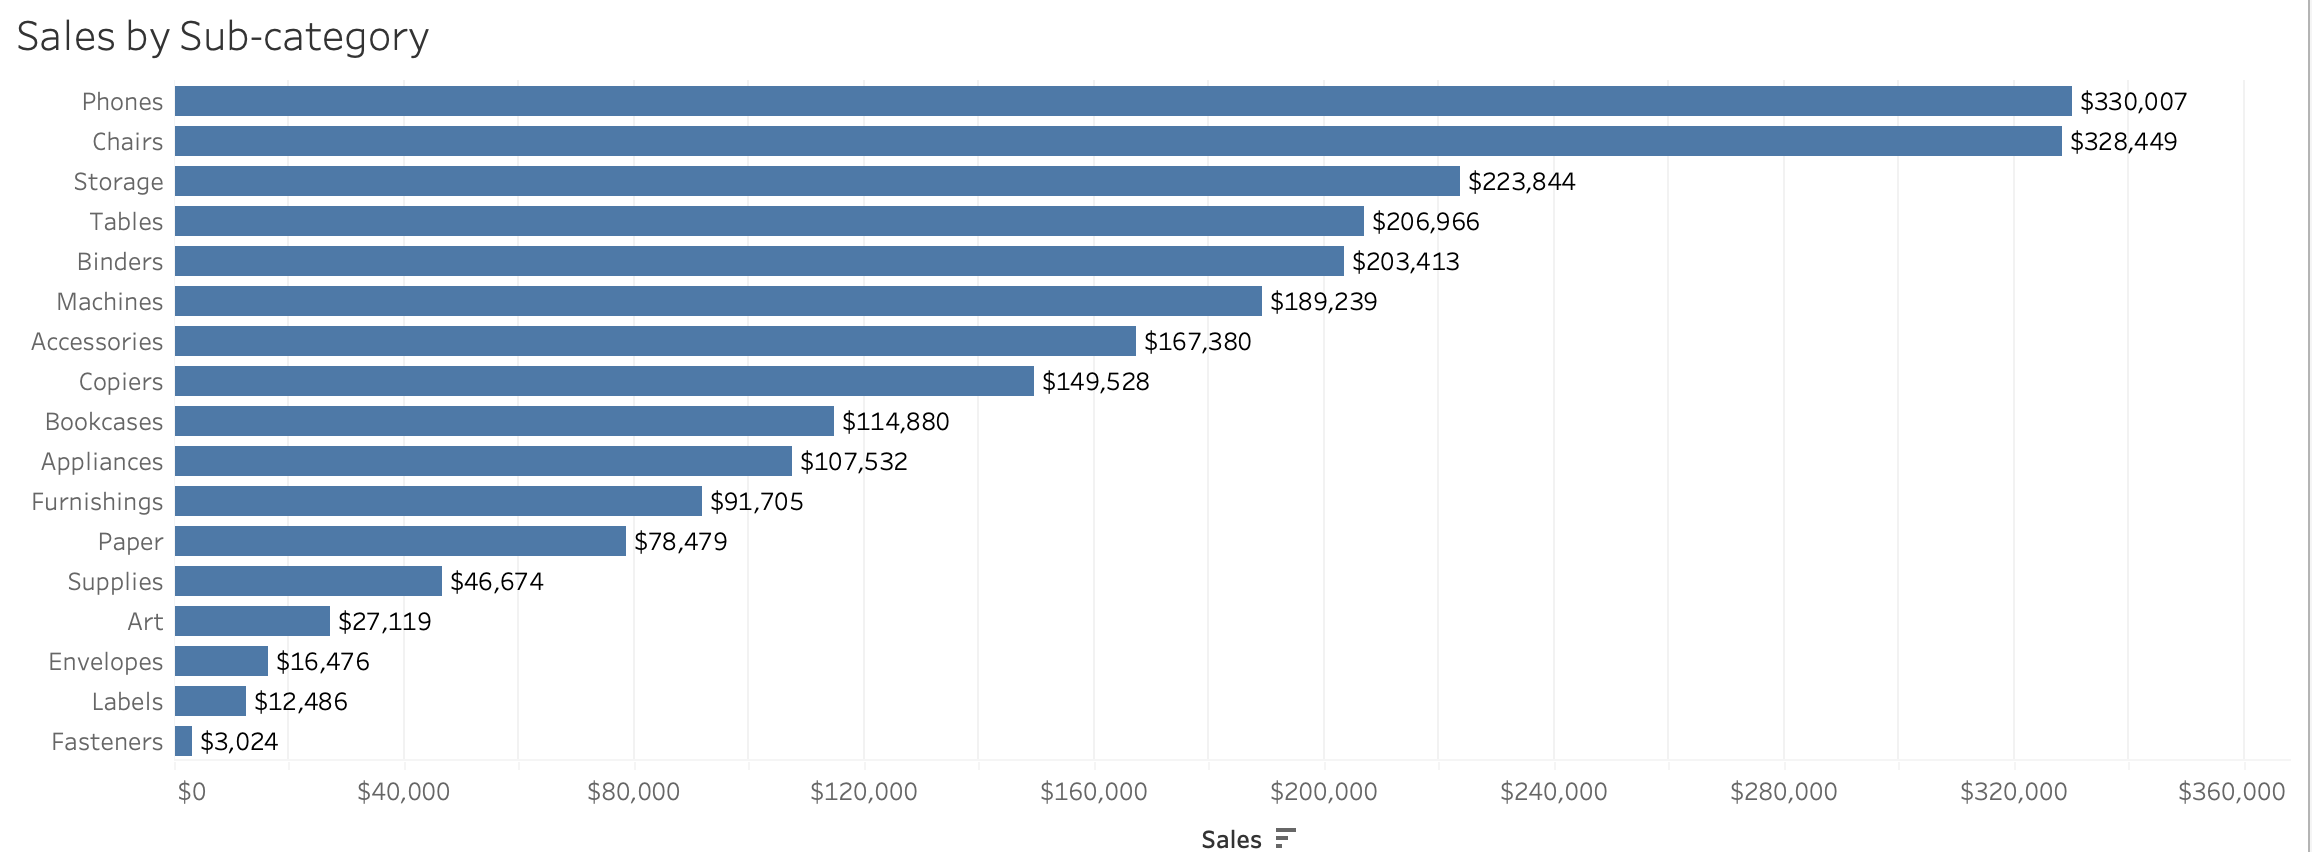
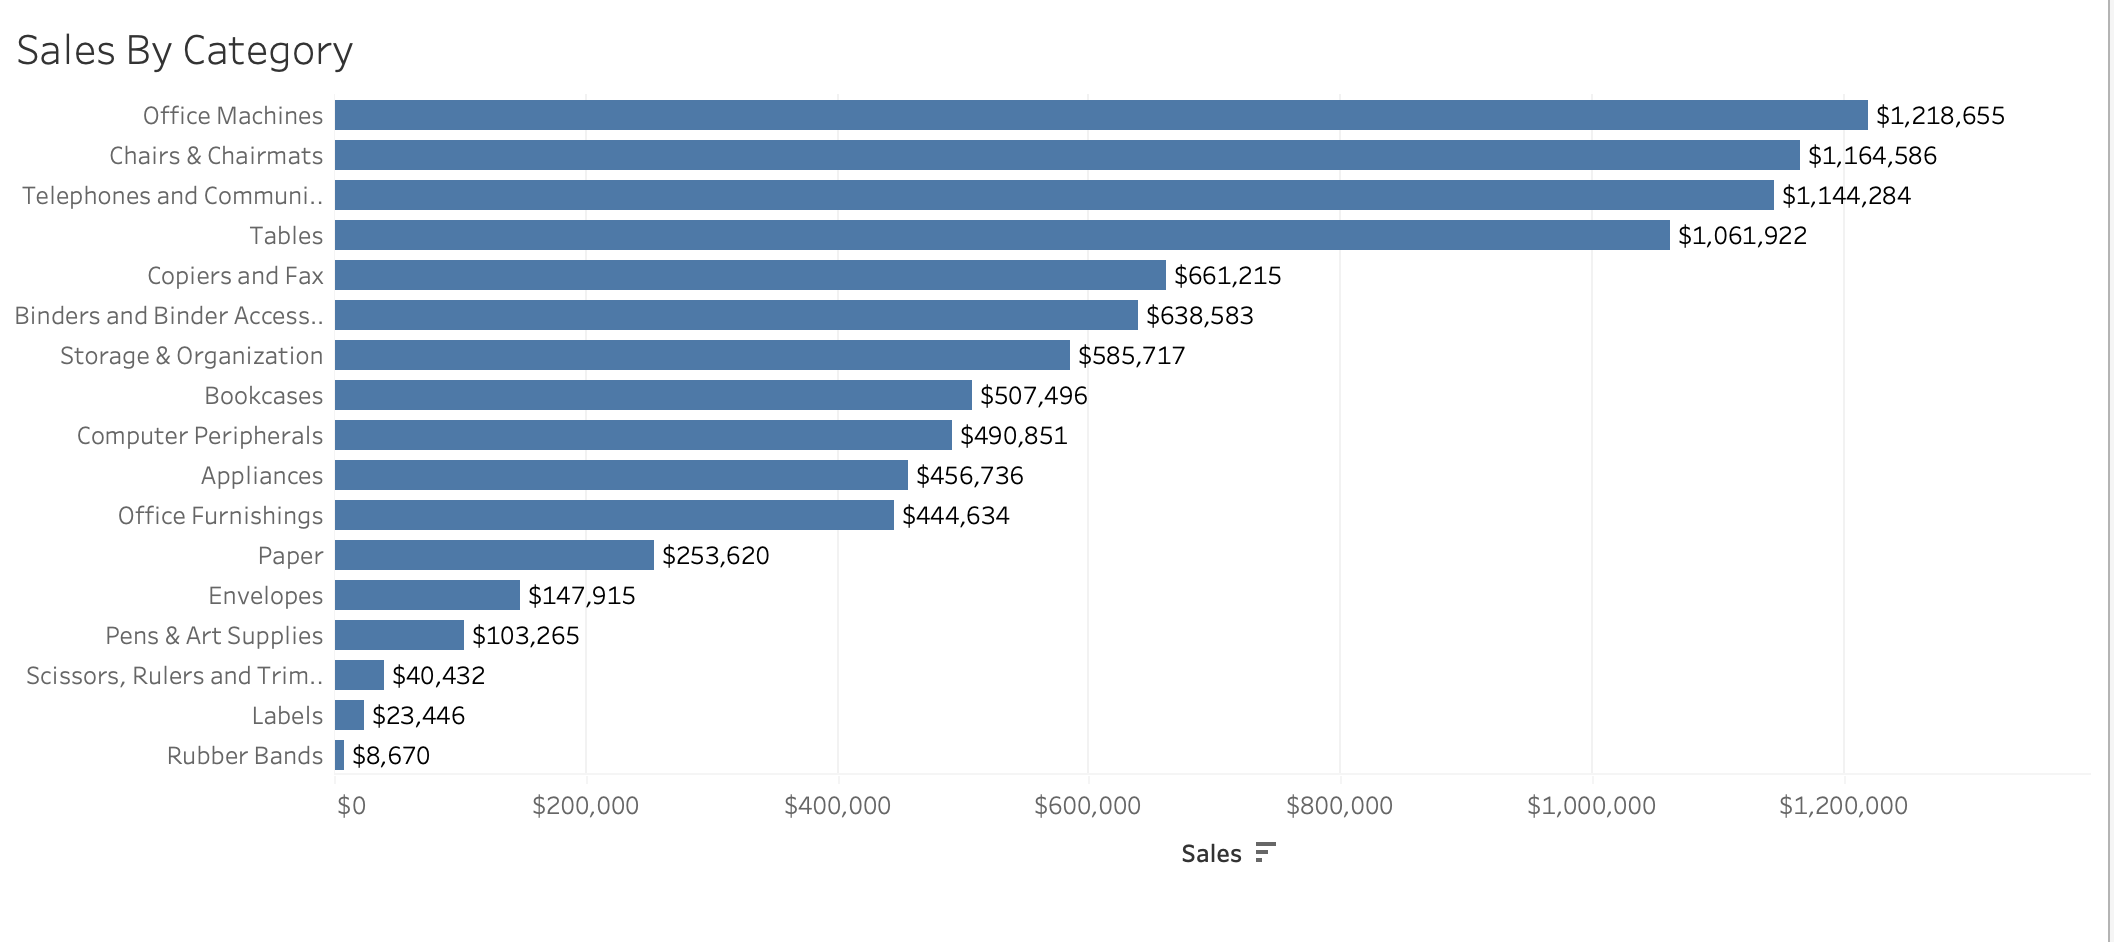
update class 1 and class 2

diff --git a/Class 2/Class-2-Exercises.md b/Class 2/Class-2-Exercises.md
@@ -10,14 +10,14 @@ https://docs.google.com/spreadsheets/d/1YUZ1UnryuCX7cwbfNptGuzx0G4yth7i-m9Jrkce9
 Note: If you do not have a Google account, you can also download the Excel data file [here](/data/Superstore.xlsx). 
 ##
 
-**2. Change the `Customer ID` and `Order ID` field from type Number to type String.**
+**2. Change the `Customer ID`, `Item ID`, and `Order ID` field from type Number to type String.**
 
 Always make this your first step when cleaning data. We never want to accidentally perform math on an ID field and Strings take up less space than Numbers in memory. 
 ##
 
 **3. Hide the `Row ID` field.**
 
-This field was incorrectly interpreted as a date by Tableau when imported. Try changing the field type to a String or a Number (it doesn't work!). We need more advanced tools such as Tableau Prep to fix this. For now, we will just hide it.
+This field was incorrectly interpreted as a date by Tableau when imported. Try changing the field type to a String (it doesn't work!). We need more advanced tools such as Tableau Prep to fix this, but for now, we will just hide it.
 ##
 
 **4. Add the following data source filters:**
@@ -26,33 +26,101 @@ This field was incorrectly interpreted as a date by Tableau when imported. Try c
 * Filter out orders with very low sales (`Sales` <= $10)
 * Limit the data to the South and East `Region`.
 ##
-**5. Create an extract filter that includes only orders with `Profit` >= $0.**
+**5. Create an extract and add a filter that includes only orders with `Profit` >= $0.**
 ##
+
+Note: If you connected through the Excel file, both data source and extract filters perform the filtering at the same time. 
 
 **6. Rename ambiguous field names to more descriptive ones**:
 
-* Rename `Sub-Category` to `Product Sub-Category`
 * Rename `Category` to `Product Category`
 ##
 
 **7. Create a calculated field called `Profit Margin`.**
 
-(`Profit` / `Sales`)
+Hint: (`Profit` / `Sales`)
 
 ##
 
-**8. Create a Group for `Product Category` called `Category Groups`**
+**8. Assign aliases for the labels in `Order Priorty`** 
+
+* Low --> L
+* Medium --> M
+* High --> H
+* Critical --> C
+##
+
+**9. Create a Group for `Product Category` called `Product Category Groups`**
 
 ![Exercise 2](/images/exercise%202/2.8.png)
+##
 
-**9. Create a set using the `Customer Name` field called `Top 10 most profitable customers`.**
+**10. Create a set using the `Customer Name` field called `Top 10 most profitable customers`.**
 
 The set should indicate for each record if the customer is in the Top 10 most profitable. 
 ##
 
-**10. Create a set using the `Customer Name` field called `Top 10 most frequent customers`.**
+**11. Create a set using the `Customer Name` field called `Top 10 most frequent customers`.**
 
 The set should indicate for each record if the number of orders is in the top 10 for all customers. 
 
 ![Exercise 2](/images/exercise%202/2.10.png)
+
+### Part II: Data Analysis
+##
+
+**12. Create a bar chart that shows the top 10 most profitable customers sorted by descending profit.**
+Hint: Use the `Top 10 most profitable customers` set as a filter.
+
+* Format the axis to currency
+* Add labels to the end of the bars
+* Hide field labels for rows
+
+![Exercise 2](/images/exercise%202/2.12.png)
+##
+
+**13. Create a Stacked Bar Chart to determine which categories perform best in different regions. Use the `Product Category Group` to color the bars.**
+
+* Make sure the axis is formated to currency
+
+![Exercise 2](/images/exercise%202/2.13.png)
+##
+
+
+**14. Visualize `Sales` contribution by `Customer Name` for the top 10 most frequent customers using a treemap. Color the boxes by `Profit` to help determine which frequent customers have low profitability.** 
+Hint: Use Show Me
+
+* Use the Red-Green Diverging color palette.
+
+![Exercise 2](/images/exercise%202/2.14.png)
+##
+
+**15. Create a highlight table to visualize average `Profit Margin` by `Order Priority`.** Hint: Use Show Me.
+
+* Sort the `Order Priority` labels in order of priority.
+
+* Use the color palette Sunrise-Sunset Diverging and reverse the palette so the lowest average profit margins are shown in red. 
+
+* Format `Profit Margin` as a % with 1 decimal point.
+
+Note: When we created the `Profit Margin` field in Part I, Tableau correctly infered that the field should be a percentage. However, adding a percentage to a visualization does not automatically include '%' and choosing the percentage format when making a visualization multiplies the number by 100 again, which is not what we want. This is an unfortunate feature of Tableau, but you will have to find one of several "hacks" to get the chart formatted correctly. 
+
+![Exercise 2](/images/exercise%202/2.15.png)
+##
+
+**16. Put everything together into a dashboard.**
+
+Use your best creative judgement to arrange the visualizations created in Part II of this exercise into a dashboard. Include the following: 
+
+* Create a vertical container covering the entire view.
+
+* Drag a text container to the top of the dashboard. Add the Title `Class 2: Superstore Sales Insights`. Set the font size to 28, bold the text, and change the text color to black.
+
+* Change the background color of the dashboard to light grey.
+
+* Add Outer Padding of 10 to all containers 
+
+* Hide the legend for the `Frequent Customer Profitability` and `Profit Margin by Priority` visualizations. 
+
+
 

diff --git a/Class 1/Class-1-Certification-Practice-Questions.md b/Class 1/Class-1-Certification-Practice-Questions.md
@@ -1,0 +1,162 @@
+# Data Analytics For Business Professionals: Tableau
+## Class #1: Taking Off With Tableau Desktop Specialist Certification Practice Questions
+
+
+**1. What type of data is the following?**
+
+ Box Office Earnings: $500M, $1B, $2.5B
+
+A. Discrete Measure
+
+B. Continuous Measure
+
+C. Continuous Dimension
+##
+
+**2. What type of data is the following?**
+
+Release Year of Marvel Movies: 2015, 2020, 2023
+
+A. Discrete Measure
+
+B. Continuous Measure
+
+C. Continuous Dimension
+##
+
+**3. What type of data is the following?**
+
+Movie Genres: Action, Comedy, Drama, Sci-Fi
+
+A. Discrete Dimension
+
+B. Discrete Measure
+
+C. Continuous Dimension
+##
+
+**4. What type of data is the following?**
+
+Number of Oscars won by a movie
+
+A. Discrete Dimension
+
+B. Discrete Measure
+
+C. Continuous Dimension
+##
+
+**5. What type of data is always displayed as blue in Tableau?**
+
+A. Dimension
+
+B. Discrete
+
+C. Continuous
+##
+
+**6. What type of data is always displayed as green in Tableau?**
+
+A. Dimension
+
+B. Discrete
+
+C. Continuous
+##
+
+**7. What type of data is always displayed above the line in the Data Pane?**
+
+A. Dimension
+
+B. Discrete
+
+C. Measure
+##
+
+**8. What type of data is always displayed below the line in the Data Pane?**
+
+A. Dimension
+
+B. Discrete
+
+C. Measure
+##
+
+**9. Which of the following statements about dimensions is true?**
+
+A. Dimensions are always numeric
+
+B. Dimensions are qualitative and usually create headers when added to rows or columns. 
+
+C. Dimensions are always discrete
+##
+
+**10. What happens when you drag a measure to the Rows shelf?**
+
+A. A continuous axis is created by default
+
+B. A discrete header is created by default
+
+C. Nothing is displayed unless a dimension is also added
+##
+
+**11. Which chart would best visualize the following scenario?****
+
+Number of Taylor Swift concerts by country 
+
+A. Bar Chart
+
+B. Geographic Chart
+
+C. Line Chart
+##
+
+**12. Which chart would best visualize the following scenario?**
+
+Number of wins by week for the Carolina Hurricanes NHL team
+
+A. Bar Chart
+
+B. Geographic Chart
+
+C. Line Chart
+##
+
+**13. Which chart would best visualize the following scenario?**
+
+Rank the Avengers by number of battles fought
+
+A. Bar Chart
+
+B. Geographic Chart
+
+C. Line Chart
+##
+
+**14. Which chart would best visualize the following scenario?**
+
+Wake Tech student enrollment by semester
+
+A. Bar Chart
+
+B. Geographic Chart
+
+C. Line Chart
+##
+
+**15. Which chart would best visualize the following scenario?**
+
+Wake Tech student enrollment by semester
+
+A. Bar Chart
+
+B. Geographic Chart
+
+C. Line Chart
+
+
+
+
+
+
+

diff --git a/Class 1/Class-1-Exercises.md b/Class 1/Class-1-Exercises.md
@@ -1,34 +1,40 @@
 # Data Analytics For Business Professionals: Tableau
 ## Class #1: Taking Off With Tableau Exercises
 
-1. Create a horizontal bar chart that shows average sales by sub-category. 
-    - Add labels to display the exact sales values for each sub-category
-    - Sort the sub-categories in descending order based on average sales
+1. Create a horizontal bar chart that shows average `Sales` by `Category`. 
+    - Add labels to display the exact sales values for each category
+    - Sort the categories in descending order based on average sales
     - Format the axis and labels to currency
 
     ![Exercise 1](/images/exercise%201/1.1.png)
+    ##
 
-2. Create a line chart that shows the number of orders by month.
-    - Format the axis to currency
+2. Create a line chart that shows `Orders (Count)` by month.
     - Format the dates to abbreviation and change the orientation to horizontal
+    - Use the descrete version of months
 
      ![Exercise 2](/images/exercise%201/1.2.png)
+     ##
 
-3. Create a dual-axis chart that compares total sales and profit by ship date year.
+3. Create a dual-axis chart that compares total `Sales` and `Profit` by `Ship Date` year.
     - Synchronize the axes
     - Hide the second vertical axis
     - Format the axis to currency
-    - Make sure to use continuous year instead of discrete
+    - Use the continuous version of years
+    - Remove the y-axis label
 
     ![Exercise 3](/images/exercise%201/1.3.png)
+    ##
 
-4. Create a geographic bubble chart that shows the median sales by state.
+4. Create a geographic bubble chart that shows the median `Sales` by `State`.
     - Make the size of the bubble represent the median sales
     - Add the state name as a label
 
     ![Exercise 4](/images/exercise%201/1.4.png)
+    ##
 
-5. Combine all your visualizations into a dashboard
+5. Combine your visualizations into a dashboard
     - Arrange all 4 charts neatly 
     - Allow all charts to be used as a filter
     - Add a meaningful title to your dashboard
+    - Prepare to present your dashboard
